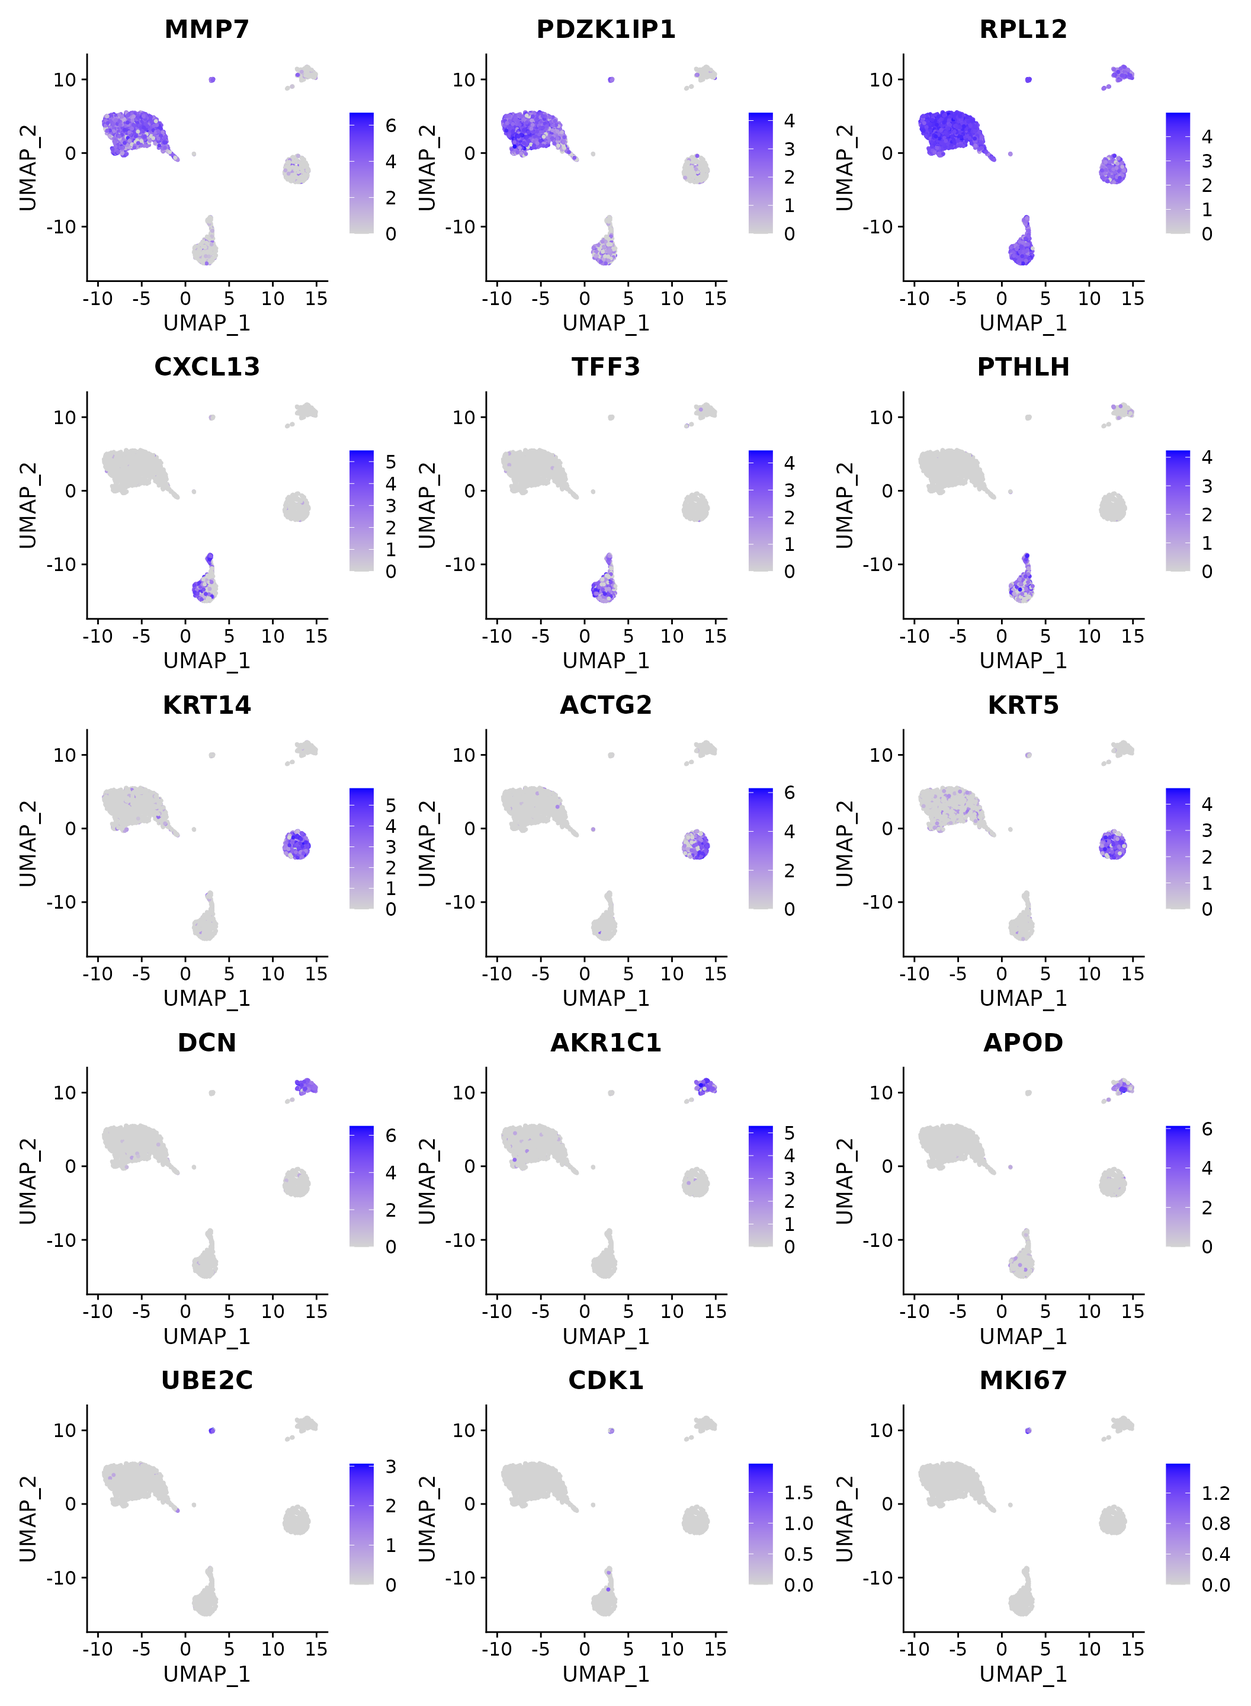
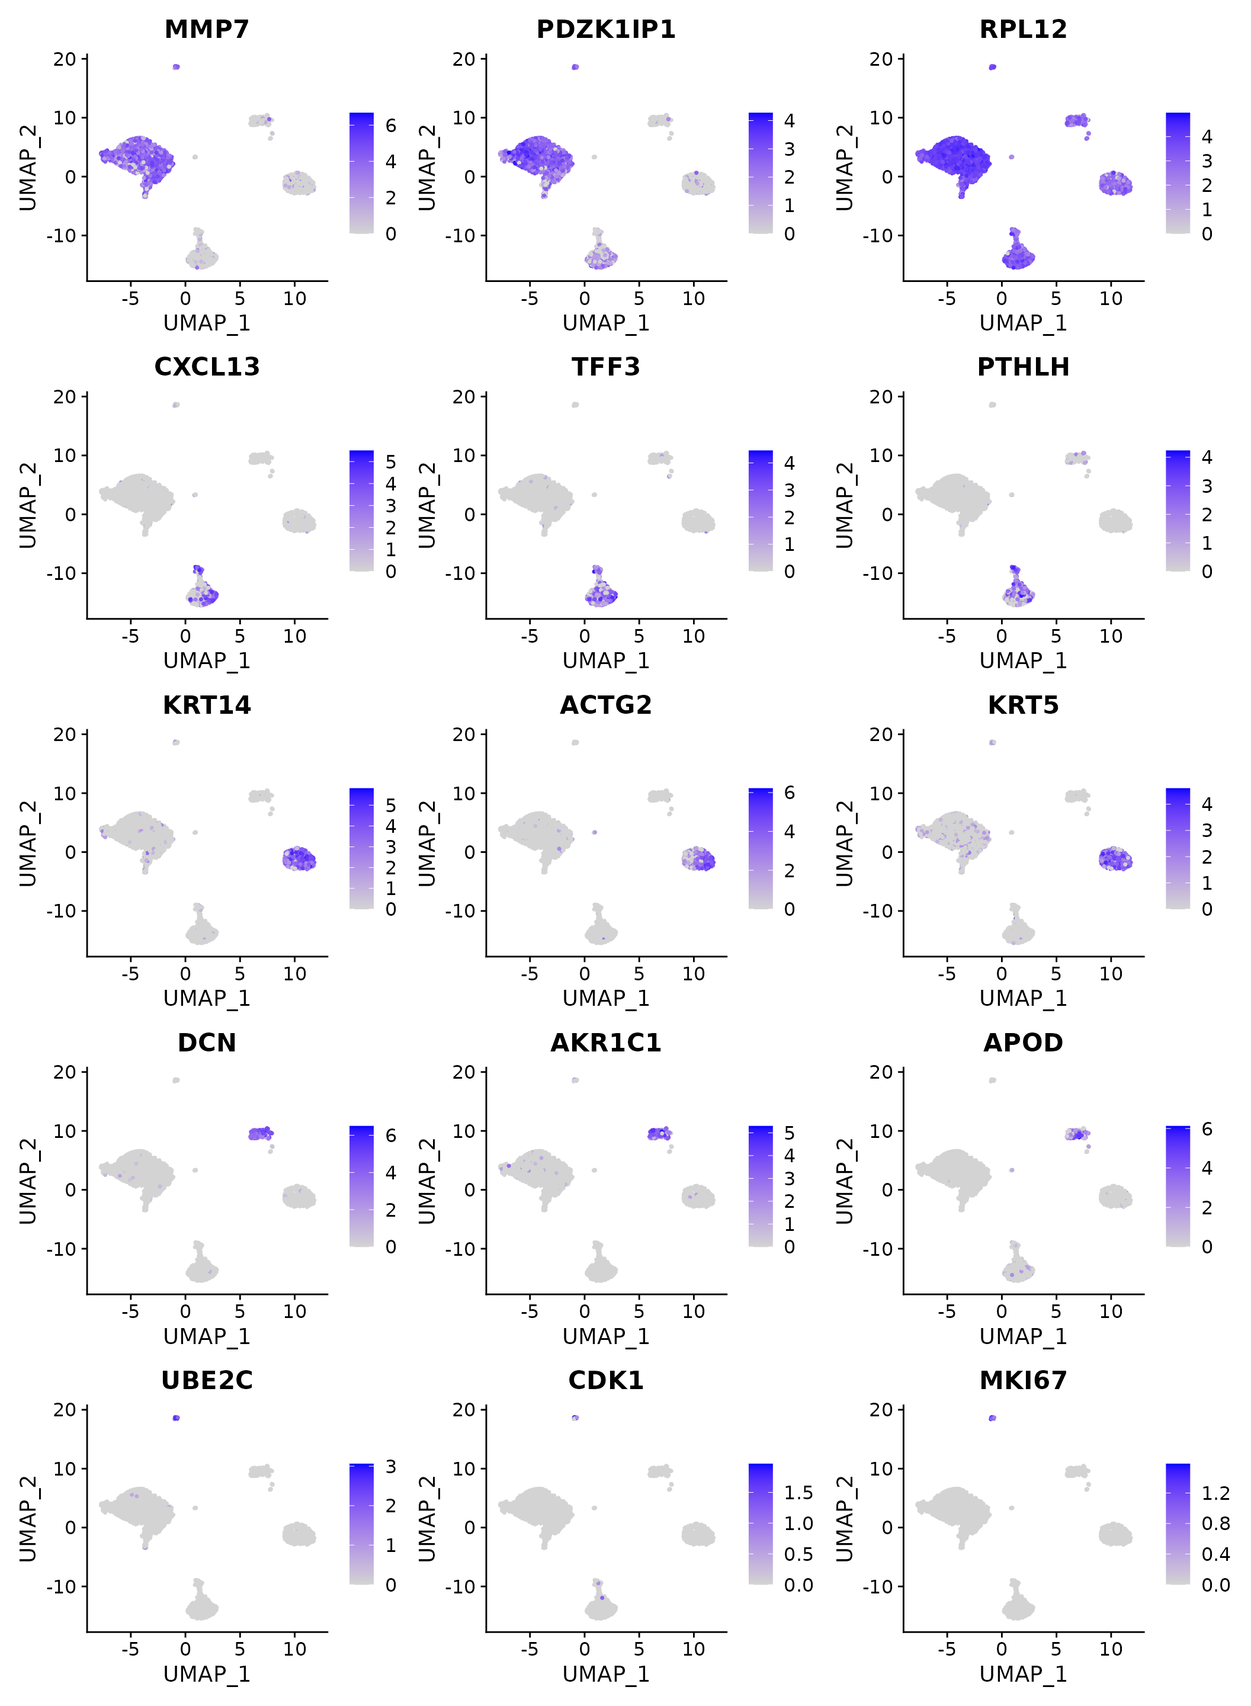
Deploying to gh-pages from  @ 87ee406ff95d5aef9ab96742aa99b48244808c12 🚀

diff --git a/articles/SingleCellWorkshop.html b/articles/SingleCellWorkshop.html
@@ -31,7 +31,7 @@
       </button>
       <span class="navbar-brand">
         <a class="navbar-link" href="../index.html">SingleCellWorkshop</a>
-        <span class="version label label-default" data-toggle="tooltip" data-placement="bottom" title="Released version">0.1.16</span>
+        <span class="version label label-default" data-toggle="tooltip" data-placement="bottom" title="Released version">0.1.17</span>
       </span>
     </div>
 
@@ -225,8 +225,8 @@ PCA plot showing the first two principal components of the data.
 <p>Here we perform both UMAP and tSNE for dimensional reduction and visualization. The top 30 PCs are used as input and a random seed is used for reproducibility.</p>
 <div class="sourceCode" id="cb15"><pre class="downlit sourceCode r">
 <code class="sourceCode R"><span class="va">dimUsed</span> <span class="op">&lt;-</span> <span class="fl">30</span>
-<span class="va">N1469</span> <span class="op">&lt;-</span> <span class="fu"><a href="https://satijalab.org/seurat/reference/RunUMAP.html">RunUMAP</a></span><span class="op">(</span><span class="va">N1469</span>, dims<span class="op">=</span><span class="fl">1</span><span class="op">:</span><span class="va">dimUsed</span>, seed.use<span class="op">=</span><span class="fl">2020</span>, verbose<span class="op">=</span><span class="cn">FALSE</span><span class="op">)</span>
-<span class="va">N1469</span> <span class="op">&lt;-</span> <span class="fu"><a href="https://satijalab.org/seurat/reference/RunTSNE.html">RunTSNE</a></span><span class="op">(</span><span class="va">N1469</span>, dims<span class="op">=</span><span class="fl">1</span><span class="op">:</span><span class="va">dimUsed</span>, seed.use<span class="op">=</span><span class="fl">2020</span><span class="op">)</span>
+<span class="va">N1469</span> <span class="op">&lt;-</span> <span class="fu"><a href="https://satijalab.org/seurat/reference/RunUMAP.html">RunUMAP</a></span><span class="op">(</span><span class="va">N1469</span>, dims<span class="op">=</span><span class="fl">1</span><span class="op">:</span><span class="va">dimUsed</span>, seed.use<span class="op">=</span><span class="fl">2021</span>, verbose<span class="op">=</span><span class="cn">FALSE</span><span class="op">)</span>
+<span class="va">N1469</span> <span class="op">&lt;-</span> <span class="fu"><a href="https://satijalab.org/seurat/reference/RunTSNE.html">RunTSNE</a></span><span class="op">(</span><span class="va">N1469</span>, dims<span class="op">=</span><span class="fl">1</span><span class="op">:</span><span class="va">dimUsed</span>, seed.use<span class="op">=</span><span class="fl">2021</span><span class="op">)</span>
 <span class="va">plot1</span> <span class="op">&lt;-</span> <span class="fu"><a href="https://satijalab.org/seurat/reference/DimPlot.html">DimPlot</a></span><span class="op">(</span><span class="va">N1469</span>, reduction <span class="op">=</span> <span class="st">"umap"</span><span class="op">)</span>
 <span class="va">plot2</span> <span class="op">&lt;-</span> <span class="fu"><a href="https://satijalab.org/seurat/reference/DimPlot.html">DimPlot</a></span><span class="op">(</span><span class="va">N1469</span>, reduction <span class="op">=</span> <span class="st">"tsne"</span><span class="op">)</span>
 <span class="va">plot1</span> <span class="op">+</span> <span class="va">plot2</span></code></pre></div>
@@ -454,7 +454,7 @@ Ternary plot positioning each cell according to the proportion of basal, LP, or 
 <div class="sourceCode" id="cb43"><pre class="downlit sourceCode r">
 <code class="sourceCode R"><span class="va">dimUsed</span> <span class="op">&lt;-</span> <span class="fl">30</span>
 <span class="va">NormEpi</span> <span class="op">&lt;-</span> <span class="fu"><a href="https://satijalab.org/seurat/reference/RunPCA.html">RunPCA</a></span><span class="op">(</span><span class="va">NormEpi</span>, npcs<span class="op">=</span><span class="va">dimUsed</span>, verbose<span class="op">=</span><span class="cn">FALSE</span><span class="op">)</span>
-<span class="va">NormEpi</span> <span class="op">&lt;-</span> <span class="fu"><a href="https://satijalab.org/seurat/reference/RunUMAP.html">RunUMAP</a></span><span class="op">(</span><span class="va">NormEpi</span>, dims<span class="op">=</span><span class="fl">1</span><span class="op">:</span><span class="va">dimUsed</span>, seed.use<span class="op">=</span><span class="fl">2020</span><span class="op">)</span>
+<span class="va">NormEpi</span> <span class="op">&lt;-</span> <span class="fu"><a href="https://satijalab.org/seurat/reference/RunUMAP.html">RunUMAP</a></span><span class="op">(</span><span class="va">NormEpi</span>, dims<span class="op">=</span><span class="fl">1</span><span class="op">:</span><span class="va">dimUsed</span>, seed.use<span class="op">=</span><span class="fl">2021</span><span class="op">)</span>
 <span class="fu"><a href="https://satijalab.org/seurat/reference/DimPlot.html">DimPlot</a></span><span class="op">(</span><span class="va">NormEpi</span>, reduction <span class="op">=</span> <span class="st">"umap"</span>, group.by<span class="op">=</span><span class="st">"orig.ident"</span><span class="op">)</span></code></pre></div>
 <div class="figure" style="text-align: center">
 <img src="SingleCellWorkshop_files/figure-html/UMAP_Sample-1.png" alt="UMAP visualization of the integrated data where cells are coloured by patient." width="768"><p class="caption">
@@ -473,17 +473,17 @@ UMAP visualization of the integrated data where cells are coloured by patient.
 <pre><code>## Modularity Optimizer version 1.3.0 by Ludo Waltman and Nees Jan van Eck
 ## 
 ## Number of nodes: 13644
-## Number of edges: 572889
+## Number of edges: 573287
 ## 
 ## Running Louvain algorithm...
-## Maximum modularity in 10 random starts: 0.9642
+## Maximum modularity in 10 random starts: 0.9645
 ## Number of communities: 6
-## Elapsed time: 2 seconds</code></pre>
+## Elapsed time: 6 seconds</code></pre>
 <div class="sourceCode" id="cb46"><pre class="downlit sourceCode r">
 <code class="sourceCode R"><span class="fu"><a href="https://rdrr.io/r/base/table.html">table</a></span><span class="op">(</span><span class="fu"><a href="https://satijalab.org/seurat/reference/Idents.html">Idents</a></span><span class="op">(</span><span class="va">NormEpi</span><span class="op">)</span><span class="op">)</span></code></pre></div>
 <pre><code>## 
 ##    0    1    2    3    4    5 
-## 5520 5446 2040  418  153   67</code></pre>
+## 5526 5438 1979  419  214   68</code></pre>
 <p>The clustering results are shown in the UMAP plot below.</p>
 <div class="sourceCode" id="cb48"><pre class="downlit sourceCode r">
 <code class="sourceCode R"><span class="fu"><a href="https://satijalab.org/seurat/reference/DimPlot.html">DimPlot</a></span><span class="op">(</span><span class="va">NormEpi</span>, reduction <span class="op">=</span> <span class="st">"umap"</span>, label<span class="op">=</span><span class="cn">TRUE</span><span class="op">)</span></code></pre></div>
@@ -561,15 +561,15 @@ Ternary plot positioning each cell according to the proportion of basal, LP, or 
 <span class="fu"><a href="https://rdrr.io/r/base/table.html">table</a></span><span class="op">(</span><span class="va">sampClust</span><span class="op">)</span></code></pre></div>
 <pre><code>## sampClust
 ## N0123_Clst0 N0123_Clst1 N0123_Clst2 N0123_Clst3 N0123_Clst4 N0123_Clst5 N0230_Clst0 
-##         839        1563         366          12          41          19        1033 
+##         839        1563         358          12          49          19        1029 
 ## N0230_Clst1 N0230_Clst2 N0230_Clst3 N0230_Clst4 N0230_Clst5 N0280_Clst0 N0280_Clst1 
-##         561         156          77          15          15         346         392 
+##         562         139          78          33          16         346         392 
 ## N0280_Clst2 N0280_Clst3 N0280_Clst4 N0280_Clst5 N1105_Clst0 N1105_Clst1 N1105_Clst2 
-##         316          39          30           3        1597        2469         784 
+##         302          39          44           3        1601        2465         771 
 ## N1105_Clst3 N1105_Clst4 N1105_Clst5 N1469_Clst0 N1469_Clst1 N1469_Clst2 N1469_Clst3 
-##          80          22           1        1705         461         418         210 
+##          80          35           1        1711         456         409         210 
 ## N1469_Clst4 N1469_Clst5 
-##          45          29</code></pre>
+##          53          29</code></pre>
 <p>We then form pseudo-bulk samples by aggregating the read counts for each gene by cluster-sample combination.</p>
 <div class="sourceCode" id="cb57"><pre class="downlit sourceCode r">
 <code class="sourceCode R"><span class="va">rawCounts</span> <span class="op">&lt;-</span> <span class="fu"><a href="https://rdrr.io/r/base/matrix.html">as.matrix</a></span><span class="op">(</span><span class="va">NormEpi</span><span class="op">@</span><span class="va">assays</span><span class="op">$</span><span class="va">RNA</span><span class="op">@</span><span class="va">counts</span><span class="op">)</span>
@@ -599,7 +599,7 @@ Ternary plot positioning each cell according to the proportion of basal, LP, or 
 <span class="fu"><a href="https://rdrr.io/r/base/table.html">table</a></span><span class="op">(</span><span class="va">keep.gene</span><span class="op">)</span></code></pre></div>
 <pre><code>## keep.gene
 ## FALSE  TRUE 
-##  8775 10454</code></pre>
+##  8955 10274</code></pre>
 <div class="sourceCode" id="cb64"><pre class="downlit sourceCode r">
 <code class="sourceCode R"><span class="va">y</span> <span class="op">&lt;-</span> <span class="va">y</span><span class="op">[</span><span class="va">keep.gene</span>,,keep<span class="op">=</span><span class="cn">FALSE</span><span class="op">]</span></code></pre></div>
 </div>
@@ -611,34 +611,34 @@ Ternary plot positioning each cell according to the proportion of basal, LP, or 
 <code class="sourceCode R"><span class="va">y</span> <span class="op">&lt;-</span> <span class="fu"><a href="https://rdrr.io/pkg/edgeR/man/calcNormFactors.html">calcNormFactors</a></span><span class="op">(</span><span class="va">y</span><span class="op">)</span>
 <span class="va">y</span><span class="op">$</span><span class="va">samples</span></code></pre></div>
 <pre><code>##             group lib.size norm.factors Patient
-## N0123_Clst0     0  4252753        0.914   N0123
-## N0123_Clst1     1  5913960        1.033   N0123
-## N0123_Clst2     2   933292        0.870   N0123
-## N0123_Clst4     4   144308        1.135   N0123
-## N0123_Clst5     5   155185        1.155   N0123
-## N0230_Clst0     0  4261533        1.110   N0230
-## N0230_Clst1     1  1935170        1.140   N0230
-## N0230_Clst2     2   452640        1.031   N0230
-## N0230_Clst3     3   214246        1.115   N0230
-## N0230_Clst4     4    67372        1.410   N0230
-## N0230_Clst5     5    80893        1.437   N0230
-## N0280_Clst0     0  3774944        0.729   N0280
-## N0280_Clst1     1  2031958        1.014   N0280
-## N0280_Clst2     2  1382642        0.875   N0280
-## N0280_Clst3     3   188620        1.039   N0280
-## N0280_Clst4     4   180587        1.185   N0280
-## N0280_Clst5     5    55465        1.251   N0280
-## N1105_Clst0     0 18342441        0.767   N1105
-## N1105_Clst1     1 15781150        0.968   N1105
-## N1105_Clst2     2  3730398        0.778   N1105
-## N1105_Clst3     3   430622        0.908   N1105
-## N1105_Clst4     4   172690        1.219   N1105
-## N1469_Clst0     0 10459180        0.859   N1469
-## N1469_Clst1     1  2315185        0.923   N1469
-## N1469_Clst2     2  1745234        0.831   N1469
-## N1469_Clst3     3  1170267        0.776   N1469
-## N1469_Clst4     4   234042        0.933   N1469
-## N1469_Clst5     5   261094        1.034   N1469</code></pre>
+## N0123_Clst0     0  4250653        0.908   N0123
+## N0123_Clst1     1  5908620        1.052   N0123
+## N0123_Clst2     2   914352        0.906   N0123
+## N0123_Clst4     4   162664        1.184   N0123
+## N0123_Clst5     5   155062        1.210   N0123
+## N0230_Clst0     0  4251771        0.982   N0230
+## N0230_Clst1     1  1930372        1.108   N0230
+## N0230_Clst2     2   418705        1.061   N0230
+## N0230_Clst3     3   216976        1.149   N0230
+## N0230_Clst4     4   107137        1.277   N0230
+## N0230_Clst5     5    81688        1.624   N0230
+## N0280_Clst0     0  3772988        0.740   N0280
+## N0280_Clst1     1  2029941        1.082   N0280
+## N0280_Clst2     2  1342851        0.913   N0280
+## N0280_Clst3     3   188352        0.996   N0280
+## N0280_Clst4     4   219343        1.197   N0280
+## N0280_Clst5     5    55428        1.218   N0280
+## N1105_Clst0     0 18414657        0.750   N1105
+## N1105_Clst1     1 15687217        0.968   N1105
+## N1105_Clst2     2  3680521        0.779   N1105
+## N1105_Clst3     3   430315        0.899   N1105
+## N1105_Clst4     4   220814        1.176   N1105
+## N1469_Clst0     0 10510089        0.727   N1469
+## N1469_Clst1     1  2259472        0.886   N1469
+## N1469_Clst2     2  1715710        0.842   N1469
+## N1469_Clst3     3  1169207        0.790   N1469
+## N1469_Clst4     4   261270        0.994   N1469
+## N1469_Clst5     5   260898        1.085   N1469</code></pre>
 </div>
 <div id="data-exploration" class="section level2">
 <h2 class="hasAnchor">
@@ -718,34 +718,34 @@ edgeR BCV and quasi-likelihood dispersion plots.
 <span class="fu"><a href="https://rdrr.io/r/base/colnames.html">colnames</a></span><span class="op">(</span><span class="va">dtest</span><span class="op">)</span> <span class="op">&lt;-</span> <span class="fu"><a href="https://rdrr.io/r/base/colnames.html">colnames</a></span><span class="op">(</span><span class="va">contr</span><span class="op">)</span>
 <span class="va">dtest</span></code></pre></div>
 <pre><code>##        Cluster0 Cluster1 Cluster2 Cluster3 Cluster4 Cluster5
-## Down        574      919     1506     1109     1481      497
-## NotSig     8599     7161     6685     7692     7401     9380
-## Up         1281     2374     2263     1653     1572      577</code></pre>
+## Down        454      970     1703     1106     1600      637
+## NotSig     8025     6847     6321     7558     7178     9113
+## Up         1795     2457     2250     1610     1496      524</code></pre>
 <p>We can view the top DE results using the <code>topTags</code> function. For example, to see the top 20 DE genes of cluster 2 vs all the other clusters, we use the following line.</p>
 <div class="sourceCode" id="cb77"><pre class="downlit sourceCode r">
 <code class="sourceCode R"><span class="fu"><a href="https://rdrr.io/pkg/edgeR/man/topTags.html">topTags</a></span><span class="op">(</span><span class="va">test</span><span class="op">$</span><span class="va">Cluster2</span>, n<span class="op">=</span><span class="fl">20L</span><span class="op">)</span></code></pre></div>
 <pre><code>## Coefficient:  -0.2*Cluster0 -0.2*Cluster1 1*Cluster2 -0.2*Cluster3 -0.2*Cluster4 -0.2*Cluster5 
 ##          logFC unshrunk.logFC logCPM   PValue      FDR
-## ACTG2     7.72           7.73   9.21 2.82e-26 2.95e-22
-## SERPINB5  6.28           6.30   6.56 3.58e-25 1.87e-21
-## KRT5      6.51           6.52   8.98 2.57e-24 7.20e-21
-## TPM2      5.77           5.78   8.27 2.76e-24 7.20e-21
-## DLL1      5.38           5.39   5.96 9.51e-24 1.99e-20
-## DKK3      5.77           5.78   6.70 1.24e-23 2.17e-20
-## CD200     6.11           6.13   6.52 1.57e-23 2.34e-20
-## KRT14     7.39           7.39  10.84 1.16e-22 1.51e-19
-## TNS4      4.96           4.97   6.25 1.76e-21 2.04e-18
-## ACTA2     6.22           6.23   8.45 2.66e-21 2.78e-18
-## GPC1      4.65           4.66   6.31 3.87e-21 3.68e-18
-## NRP2      5.92           5.96   6.08 4.25e-21 3.70e-18
-## COL17A1   8.93          16.15   5.34 4.69e-21 3.77e-18
-## CCND2     7.07          10.60   5.68 5.44e-21 4.06e-18
-## CAV1      4.76           4.76   8.32 6.77e-21 4.72e-18
-## MSRB3     5.27           5.29   5.38 7.63e-21 4.99e-18
-## TUBB2B    4.44           4.44   7.58 1.00e-20 6.17e-18
-## OXTR      5.35           5.37   6.25 1.14e-20 6.61e-18
-## DST       3.84           3.84   8.71 2.04e-20 1.12e-17
-## FAM126A   4.41           4.42   5.87 2.87e-20 1.50e-17</code></pre>
+## ACTG2     7.81           7.82   9.22 1.33e-25 1.36e-21
+## SERPINB5  6.28           6.30   6.55 1.13e-24 5.83e-21
+## KRT5      6.28           6.28   8.99 2.08e-24 7.13e-21
+## DLL1      5.40           5.42   5.94 7.71e-24 1.98e-20
+## DKK3      5.72           5.73   6.70 1.24e-23 2.56e-20
+## CD200     6.18           6.21   6.50 2.29e-23 3.91e-20
+## TPM2      5.71           5.72   8.27 2.67e-23 3.91e-20
+## CCND2     6.25           6.31   5.67 2.04e-22 2.62e-19
+## TNS4      5.05           5.07   6.24 9.05e-22 1.03e-18
+## GPC1      4.73           4.73   6.29 1.53e-21 1.57e-18
+## KRT14     7.14           7.14  10.86 1.87e-21 1.74e-18
+## NRP2      5.98           6.02   6.06 4.28e-21 3.60e-18
+## COL17A1   8.91          16.14   5.32 4.55e-21 3.60e-18
+## OXTR      5.45           5.46   6.23 6.57e-21 4.82e-18
+## CAV1      4.83           4.83   8.31 7.15e-21 4.90e-18
+## FAM126A   4.48           4.50   5.84 1.01e-20 6.49e-18
+## MSRB3     5.31           5.34   5.37 1.24e-20 7.52e-18
+## ACTA2     6.00           6.00   8.46 1.90e-20 1.09e-17
+## TUBB2B    4.45           4.45   7.58 2.78e-20 1.50e-17
+## DST       3.83           3.83   8.71 3.95e-20 2.03e-17</code></pre>
 <p>We can extract the top 15 marker genes (up-regulated only) of each cluster as follows.</p>
 <div class="sourceCode" id="cb79"><pre class="downlit sourceCode r">
 <code class="sourceCode R"><span class="va">top</span> <span class="op">&lt;-</span> <span class="fl">15</span>

diff --git a/404.html b/404.html
@@ -71,7 +71,7 @@
       </button>
       <span class="navbar-brand">
         <a class="navbar-link" href="https://yunshun.github.io/SingleCellWorkshop/index.html">SingleCellWorkshop</a>
-        <span class="version label label-default" data-toggle="tooltip" data-placement="bottom" title="Released version">0.1.16</span>
+        <span class="version label label-default" data-toggle="tooltip" data-placement="bottom" title="Released version">0.1.17</span>
       </span>
     </div>
 

diff --git a/articles/index.html b/articles/index.html
@@ -71,7 +71,7 @@
       </button>
       <span class="navbar-brand">
         <a class="navbar-link" href="../index.html">SingleCellWorkshop</a>
-        <span class="version label label-default" data-toggle="tooltip" data-placement="bottom" title="Released version">0.1.16</span>
+        <span class="version label label-default" data-toggle="tooltip" data-placement="bottom" title="Released version">0.1.17</span>
       </span>
     </div>
 

diff --git a/reference/index.html b/reference/index.html
@@ -71,7 +71,7 @@
       </button>
       <span class="navbar-brand">
         <a class="navbar-link" href="../index.html">SingleCellWorkshop</a>
-        <span class="version label label-default" data-toggle="tooltip" data-placement="bottom" title="Released version">0.1.16</span>
+        <span class="version label label-default" data-toggle="tooltip" data-placement="bottom" title="Released version">0.1.17</span>
       </span>
     </div>
 

diff --git a/LICENSE-text.html b/LICENSE-text.html
@@ -71,7 +71,7 @@
       </button>
       <span class="navbar-brand">
         <a class="navbar-link" href="index.html">SingleCellWorkshop</a>
-        <span class="version label label-default" data-toggle="tooltip" data-placement="bottom" title="Released version">0.1.16</span>
+        <span class="version label label-default" data-toggle="tooltip" data-placement="bottom" title="Released version">0.1.17</span>
       </span>
     </div>
 

diff --git a/LICENSE.html b/LICENSE.html
@@ -71,7 +71,7 @@
       </button>
       <span class="navbar-brand">
         <a class="navbar-link" href="index.html">SingleCellWorkshop</a>
-        <span class="version label label-default" data-toggle="tooltip" data-placement="bottom" title="Released version">0.1.16</span>
+        <span class="version label label-default" data-toggle="tooltip" data-placement="bottom" title="Released version">0.1.17</span>
       </span>
     </div>
 

diff --git a/authors.html b/authors.html
@@ -71,7 +71,7 @@
       </button>
       <span class="navbar-brand">
         <a class="navbar-link" href="index.html">SingleCellWorkshop</a>
-        <span class="version label label-default" data-toggle="tooltip" data-placement="bottom" title="Released version">0.1.16</span>
+        <span class="version label label-default" data-toggle="tooltip" data-placement="bottom" title="Released version">0.1.17</span>
       </span>
     </div>
 

diff --git a/index.html b/index.html
@@ -32,7 +32,7 @@
       </button>
       <span class="navbar-brand">
         <a class="navbar-link" href="index.html">SingleCellWorkshop</a>
-        <span class="version label label-default" data-toggle="tooltip" data-placement="bottom" title="Released version">0.1.16</span>
+        <span class="version label label-default" data-toggle="tooltip" data-placement="bottom" title="Released version">0.1.17</span>
       </span>
     </div>
 
